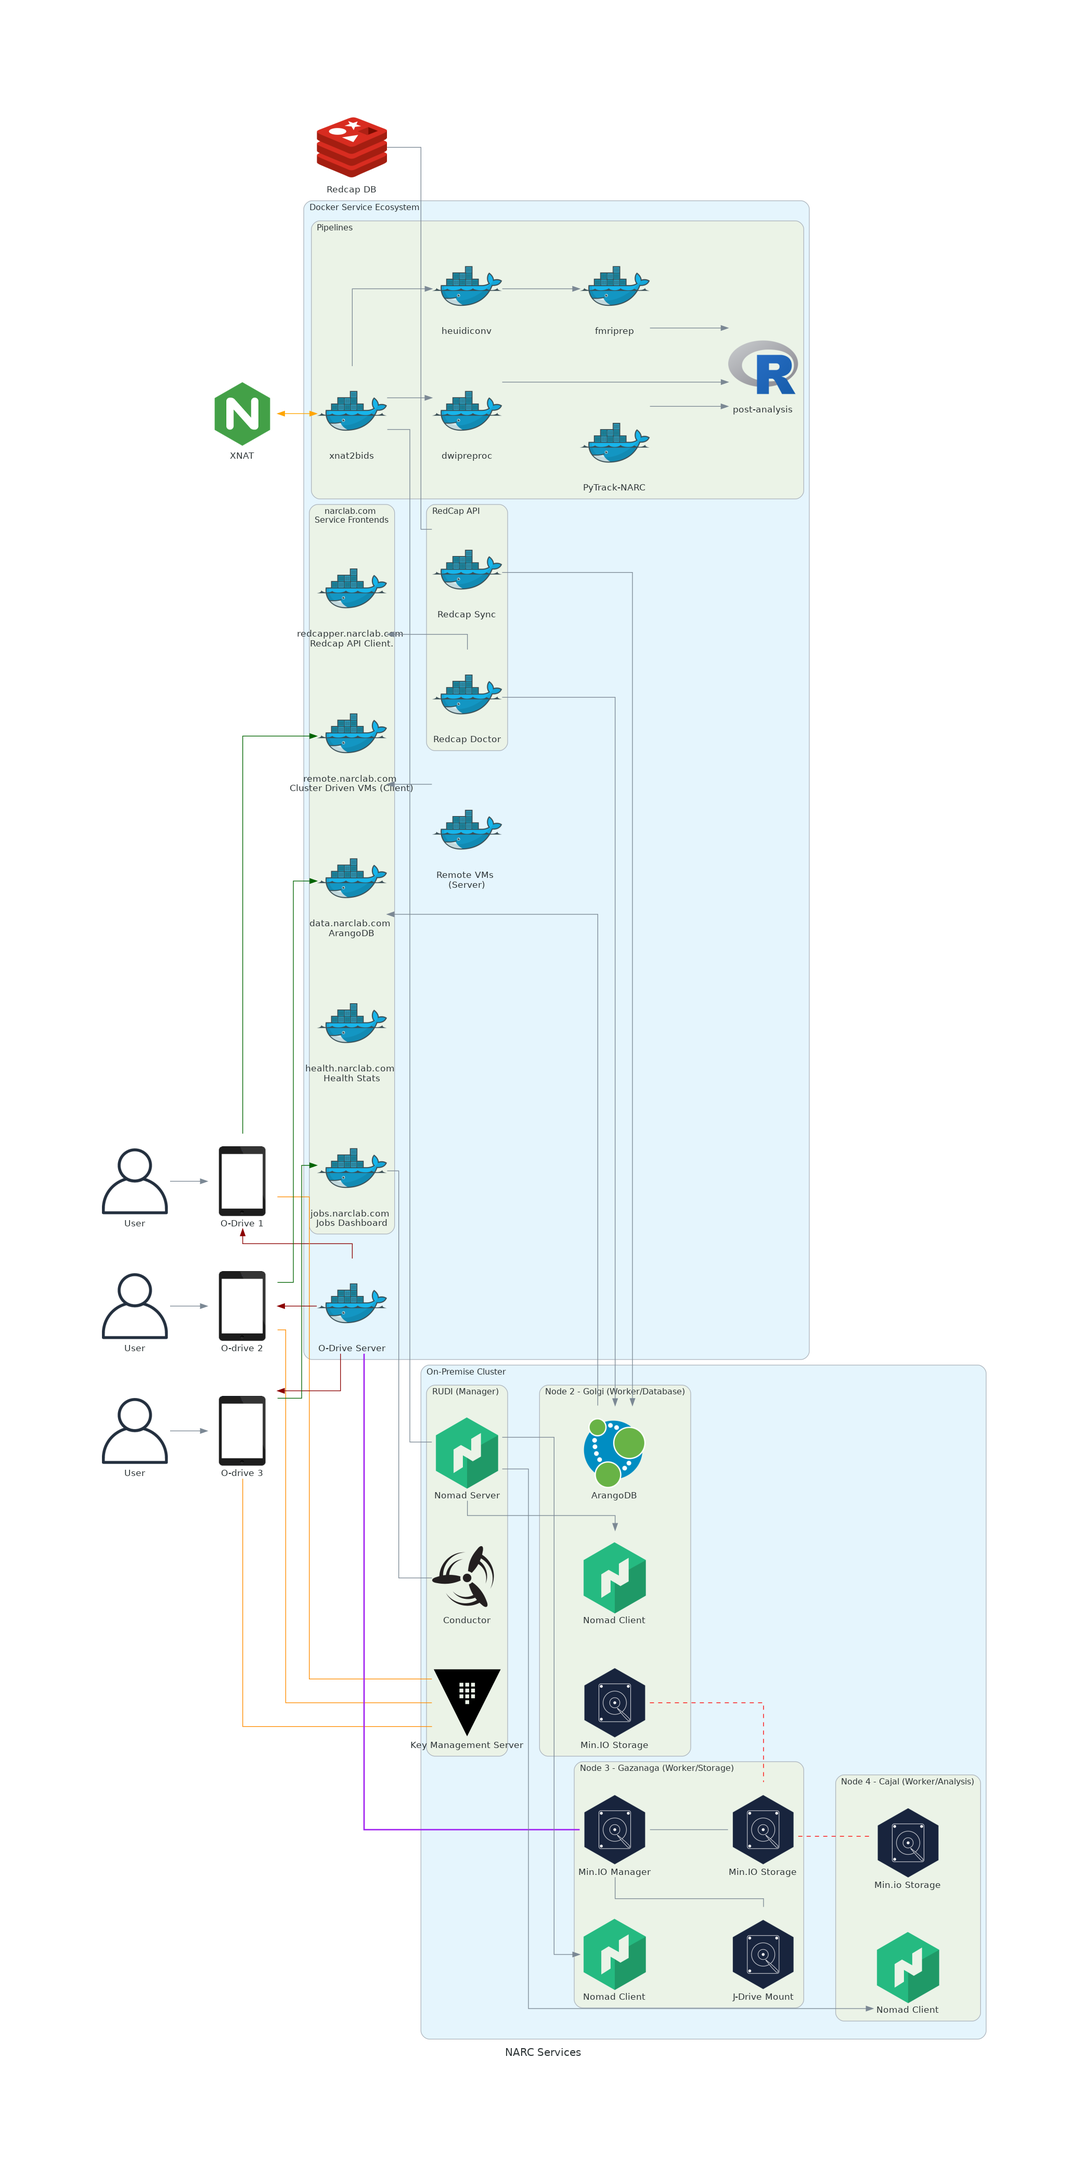
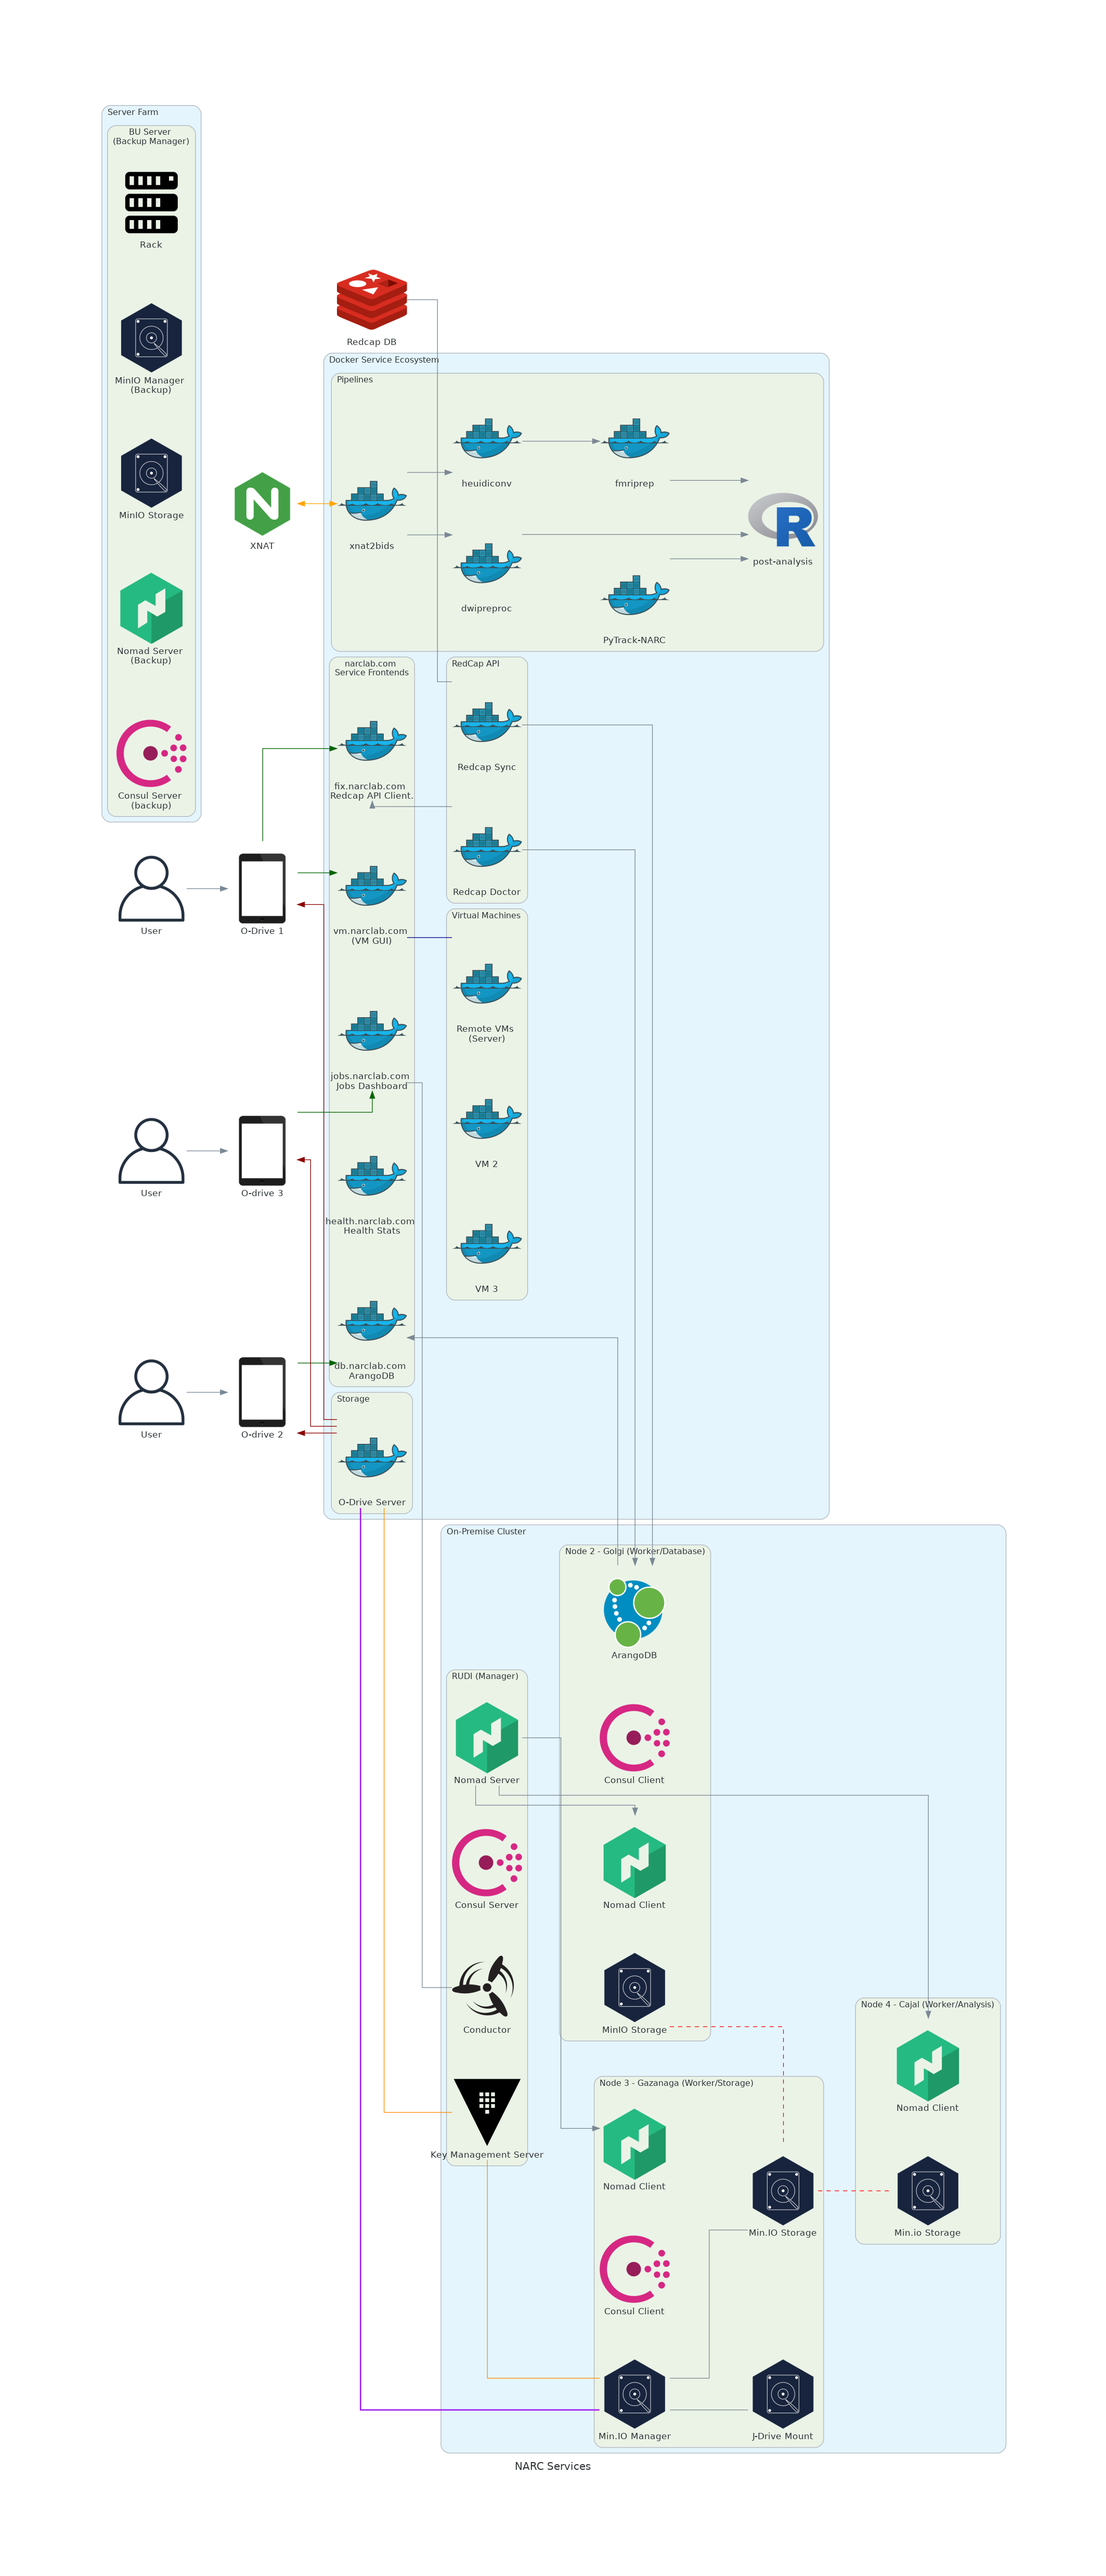
completed Redcap Doctor to fix redcap records

diff --git a/docs/diagrams/services_simple.py b/docs/diagrams/services_simple.py
@@ -51,8 +51,8 @@ with Diagram(name="NARC Services", show=True, graph_attr=graph_attr):
     tab3 = Tablet("O-drive 3")
 
     with Cluster("Docker Service Ecosystem"):
-        
-        odrive = Docker("O-Drive Server")
+        with Cluster('Storage'):
+            odrive = Docker("O-Drive Server")
         
         with Cluster("Pipelines"):
             xnat2bids = Docker("xnat2bids")
@@ -64,12 +64,18 @@ with Diagram(name="NARC Services", show=True, graph_attr=graph_attr):
         
         with Cluster("narclab.com \nService Frontends"):
             # web = Docker("narclrab.com")
-            vmAccess = Docker("remote.narclab.com \nCluster Driven VMs (Client)")
-            dbAccess = Docker("data.narclab.com \nArangoDB")
+            vmAccess = Docker("vm.narclab.com \n(VM GUI)")
+            dbAccess = Docker("db.narclab.com \nArangoDB")
             jobs = Docker("jobs.narclab.com \nJobs Dashboard")
             healthweb = Docker("health.narclab.com \nHealth Stats")
-            redcapper = Docker("redcapper.narclab.com \nRedcap API Client.")
-        vms = Docker("Remote VMs \n(Server)")
+            redcapper = Docker("fix.narclab.com \nRedcap API Client.")
+        
+        with Cluster("Virtual Machines"):
+            
+            vms = Docker("Remote VMs \n(Server)")
+            vm2 = Docker("VM 2")
+            vm3 = Docker("VM 3")
+            
         
         with Cluster("RedCap API"):
             redcapDoctor = Docker("Redcap Doctor")
@@ -84,7 +90,7 @@ with Diagram(name="NARC Services", show=True, graph_attr=graph_attr):
         
         
             
-        
+         
    
         
       
@@ -97,7 +103,7 @@ with Diagram(name="NARC Services", show=True, graph_attr=graph_attr):
             
             # node1server = Server("Node 1 \n(Manager)")
             nomad1 = Nomad("Nomad Server")
-            # consul1 = Consul("Consul Server")
+            consul1 = Consul("Consul Server")
             vault1 = Vault("Key Management Server")
             # minio1 = Storage("Min.IO Storage 1")
             concourse = ConcourseCI("Conductor")  
@@ -105,15 +111,15 @@ with Diagram(name="NARC Services", show=True, graph_attr=graph_attr):
         with Cluster("Node 2 - Golgi (Worker/Database)"):
             # node2server = Server("Node 2 - Golgi \n(Worker)"),
             nomad2 = Nomad("Nomad Client")
-            # consul2 = Consul("Consul Client")
+            consul2 = Consul("Consul Client")
             db = Neo4J("ArangoDB")
 
-            minio2 = Storage("Min.IO Storage")
+            minio2 = Storage("MinIO Storage")
           
         with Cluster("Node 3 - Gazanaga (Worker/Storage)"):
             # node3server = Server("Node 3 - Cajal \n(Database)"),
             nomad3 = Nomad("Nomad Client")
-            # consul3 = Consul("Consul Client")
+            consul3 = Consul("Consul Client")
             minio3 = Storage("Min.IO Storage")
             minio_manager = Storage("Min.IO Manager")
             jdrive = Storage("J-Drive Mount")
@@ -127,7 +133,13 @@ with Diagram(name="NARC Services", show=True, graph_attr=graph_attr):
     #     lb = LoadBalancer("Load Balancer")
         
         
-
+    with Cluster("Server Farm"):
+        with Cluster("BU Server \n(Backup Manager)"):
+            buServer = Server("Rack")
+            buMinioManager = Storage("MinIO Manager \n(Backup)")
+            buMinio = Storage("MinIO Storage")
+            buNomad = Nomad("Nomad Server \n(Backup)")
+            buConsul = Consul("Consul Server \n(Backup)")
     
     dgEdge = Edge(color="darkgreen")
     # with Cluster("Multi-Cloud"):
@@ -230,7 +242,7 @@ with Diagram(name="NARC Services", show=True, graph_attr=graph_attr):
     # minio2 >> node2server
     # minio3 >> node3server
     
-    nomad1 - xnat2bids
+    # nomad1 - xnat2bids
     xnat2bids >> heudi >> fmriprep >> postanalysis
     xnat2bids >> dwipreproc >> postanalysis
     pytrack >> postanalysis
@@ -242,7 +254,7 @@ with Diagram(name="NARC Services", show=True, graph_attr=graph_attr):
     
     # user - drEdge >> web
     # web >> dbAccess 
-    vmAccess << vms
+    vmAccess - Edge(color='darkblue') - vms
     # web - drEdge >> jobs
     # redcapper >>  redcapDoctor
  
@@ -259,8 +271,10 @@ with Diagram(name="NARC Services", show=True, graph_attr=graph_attr):
     redcapdb - redcap
     
     odrive - Edge(color="purple", style="bold") - minio_manager
+    odrive - Edge(color="darkorange") - vault1
     minio_manager - minio3
     minio_manager - jdrive
+    minio_manager - Edge(color='darkorange') - vault1
     
     
     
@@ -272,9 +286,10 @@ with Diagram(name="NARC Services", show=True, graph_attr=graph_attr):
     tab3 << Edge(color="darkred") << odrive
     tab3 >> Edge(color="darkgreen") >> jobs
     
-    tab1 - boldEdge - vault1
-    tab2 - boldEdge - vault1
-    tab3 - boldEdge - vault1
+    # tab1 - boldEdge - vault1
+    # tab2 - boldEdge - vault1
+    # tab3 - boldEdge - vault1
+    tab1 >> Edge(color='darkgreen') >> redcapper
     tab2 >> dgEdge >> dbAccess
     # tab3 - vault1
     tab1 >> dgEdge >> vmAccess

diff --git a/narc_cluster/db/transformations/moveRecord.py b/narc_cluster/db/transformations/moveRecord.py
@@ -2,28 +2,50 @@
 
 from redcap import Project
 from utils.redcapConnect import redcapConnect
+from os import path
 
 import json
 
-def moveRecord(record_id, arm='null', project='null'):   
-     
-    proj = redcapConnect()
+def moveRecord(record_id, arm, project):   
+    print("Looking for record in project", project)
+    proj = redcapConnect(project)
     # print(proj.field_names, proj.is_longitudinal, proj.def_field)
-    record_id = [record_id]
+    record_id = [record_id] # PyCap function takes array of record ids, but we are using it singularly
     record = proj.export_records(format_type='json', record_type='flat', records=record_id, raw_or_label='raw', export_blank_for_gray_form_status=False)
-    print(record[0])
-    # for i in range(len(record)):
-    #     record[i]['redcap_event_name'] = 'screening_arm_2'
-        # record[i] = 'record_id'
-        # record[i]['record_id'] = record[i]['record']
-        # record[i]
-        # new_record = map(lambda x: str.replace(x,'screening_arm_1', 'screening_arm_2'), record_copy)
+    # print(record[0])
+    for i in range(len(record)):
+        record[i]['redcap_event_name'] = 'screening_arm_' + arm
+        # new_record = map(lambda x: str.replace(x,'screening_arm_1', 'screening_arm_2'), record)
+        record[i].pop('cocaine_selective_severity_assessment_cssa_complete', None)
+        record[i].pop('items_cocaine_craving_scale_cq_complete')
+        record[i].pop('obsessivecompulsive_cocaine_scale_occs_complete')
+        record[i].pop('cocaine_negative_consequences_checklist_cncc_complete')
+  
+        
     
-    # new_record = " ".join(record_copy.get(ele, ele) for ele in test_str.split())
-    # print()
-    # for i in new_record:
-    #     print(i)\
-    print("\nNew Record: \n\n")
-    # print(record)
-    # proj.import_records(record)
+    print("Importing record with changes: ")
+    print(record[0]['redcap_event_name'])
     
+    try:
+        proj.import_records(record)
+        print("Successfully updated RedCap record ", record_id, " for project '", project, "', arm ", arm)
+    except Exception as e:
+        print("Failed to update RedCap record ", record_id, " for project '", project, "', arm ", arm, '\n\n')
+        print(e)
+
+    print("Cleaning up old record...")
+    try:
+        res = proj.delete_records(record_id)
+        print("Successfully removed old record. Saving to local file as backup: ", res)
+        filename = path.join(path.expanduser('~'), record_id + '_backup.json')
+        print('Path: ', filename)
+        try:
+           with open(filename, 'w') as f:
+               json.dump(res, f)
+        except Exception as e:
+            print("Failed to save RedCap record: ", res)
+            print(e)
+    except Exception as e:
+        print("Could not remove old record: ", record_id)
+        print(e)
+        

diff --git a/narc_cluster/db/utils/redcapConnect.py b/narc_cluster/db/utils/redcapConnect.py
@@ -1,9 +1,20 @@
 from redcap import Project
-from configs import redcap
+from configs.redcap import config
 
 ############  PyCap Setup ####################
-def redcapConnect():  
-    URL = redcap.config['api_url']
-    TOKEN = redcap.config['more_token']
-    proj = Project(URL, TOKEN)
-    return proj
+def redcapConnect(project):  
+    more_proj = Project(config['api_url'], config['more_token'])
+    sexdiff_proj = Project(config['api_url'], config['sexdiff_token'])
+    mssm_proj = Project(config['api_url'], config['mssm_token'])
+    baseline_proj = Project(config['api_url'], config['baseline_token'])
+    
+    if project == 'more':
+        return more_proj
+    elif project == 'sexdiff':
+        return sexdiff_proj
+    elif project == 'mssm':
+        return mssm_proj
+    elif project == 'baseline':
+        return baseline_proj
+    else:
+        return print("Project not found. Try 'sexdiff, sex diff, sex differences, more, or baseline")

diff --git a/narc_cluster/db/main.py b/narc_cluster/db/main.py
@@ -26,7 +26,7 @@ print(globals()['debug'])
 log("Test")
 
 
-moveRecord('49')
+moveRecord('47', '2', 'sexdiff')
 '''
 STEP 1: import enrollment data
 '''
